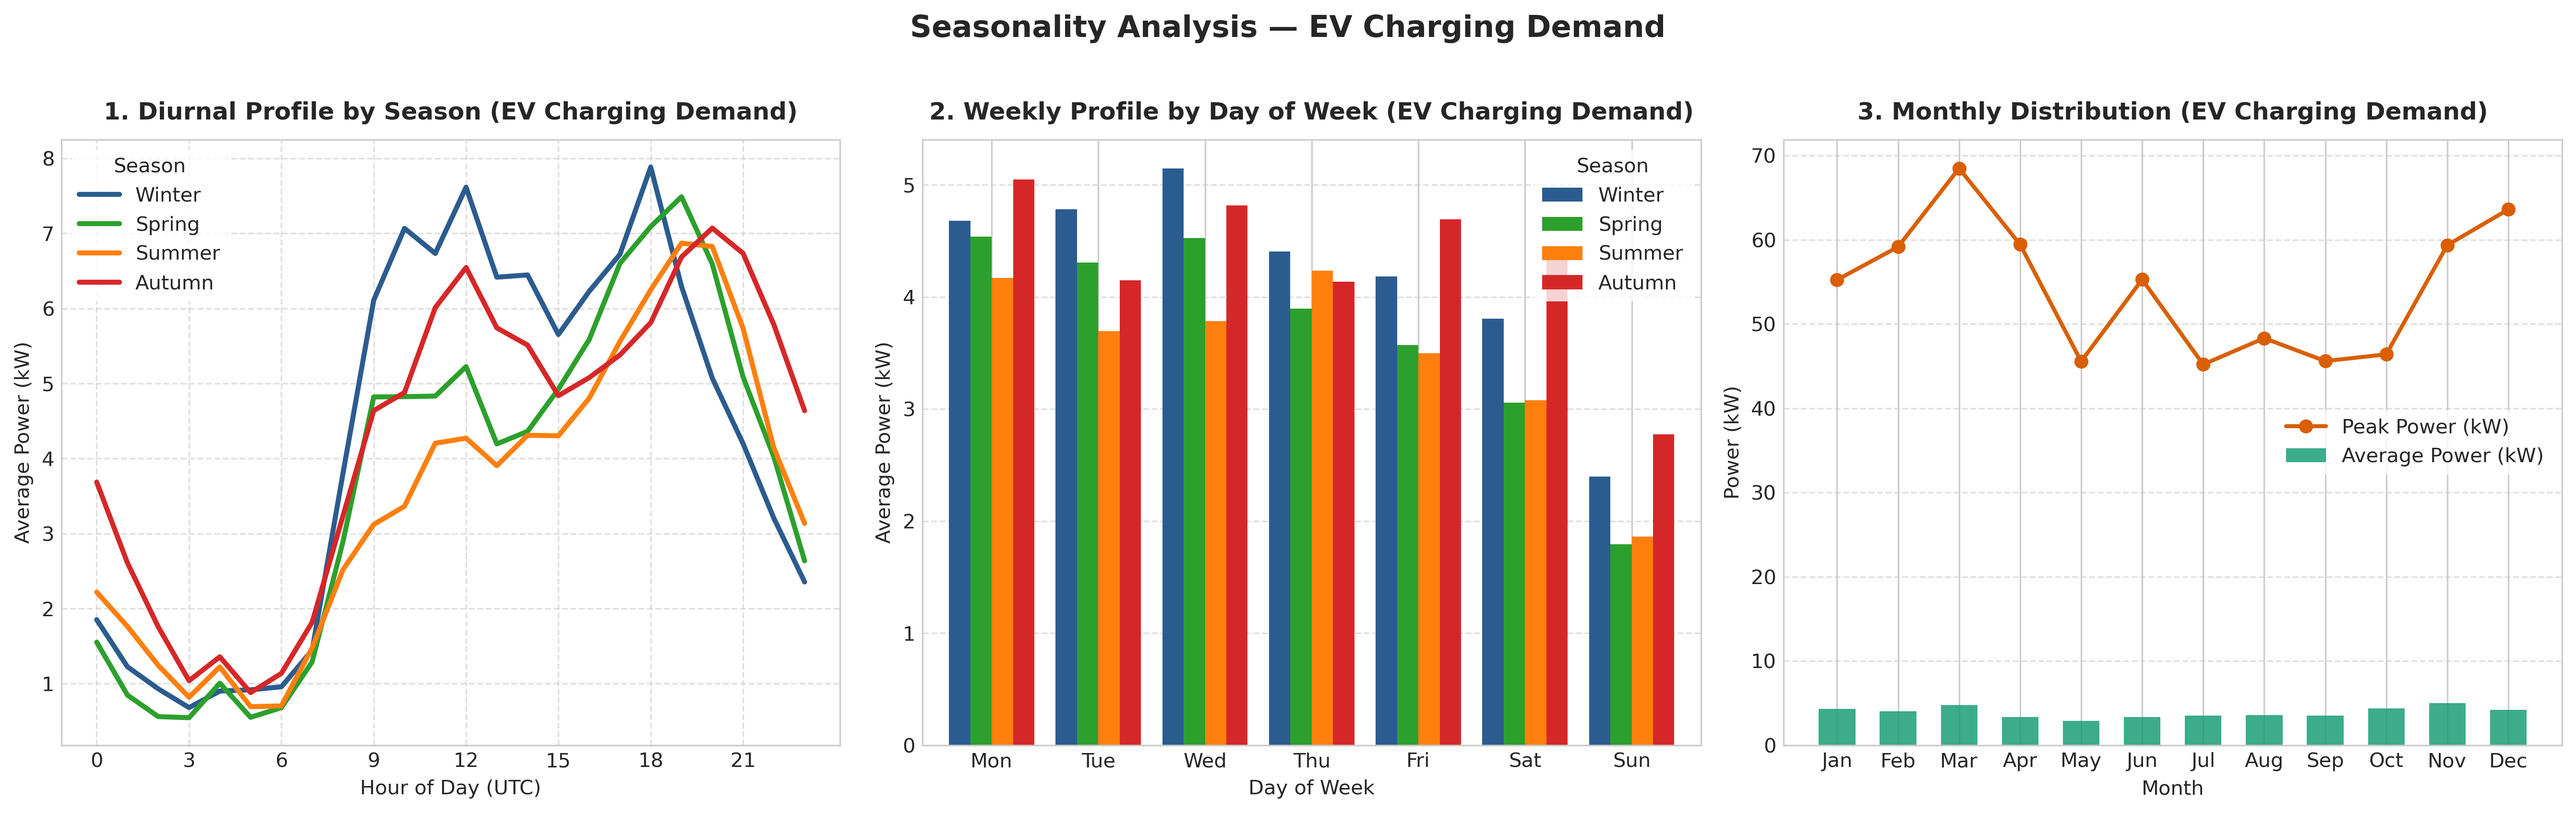
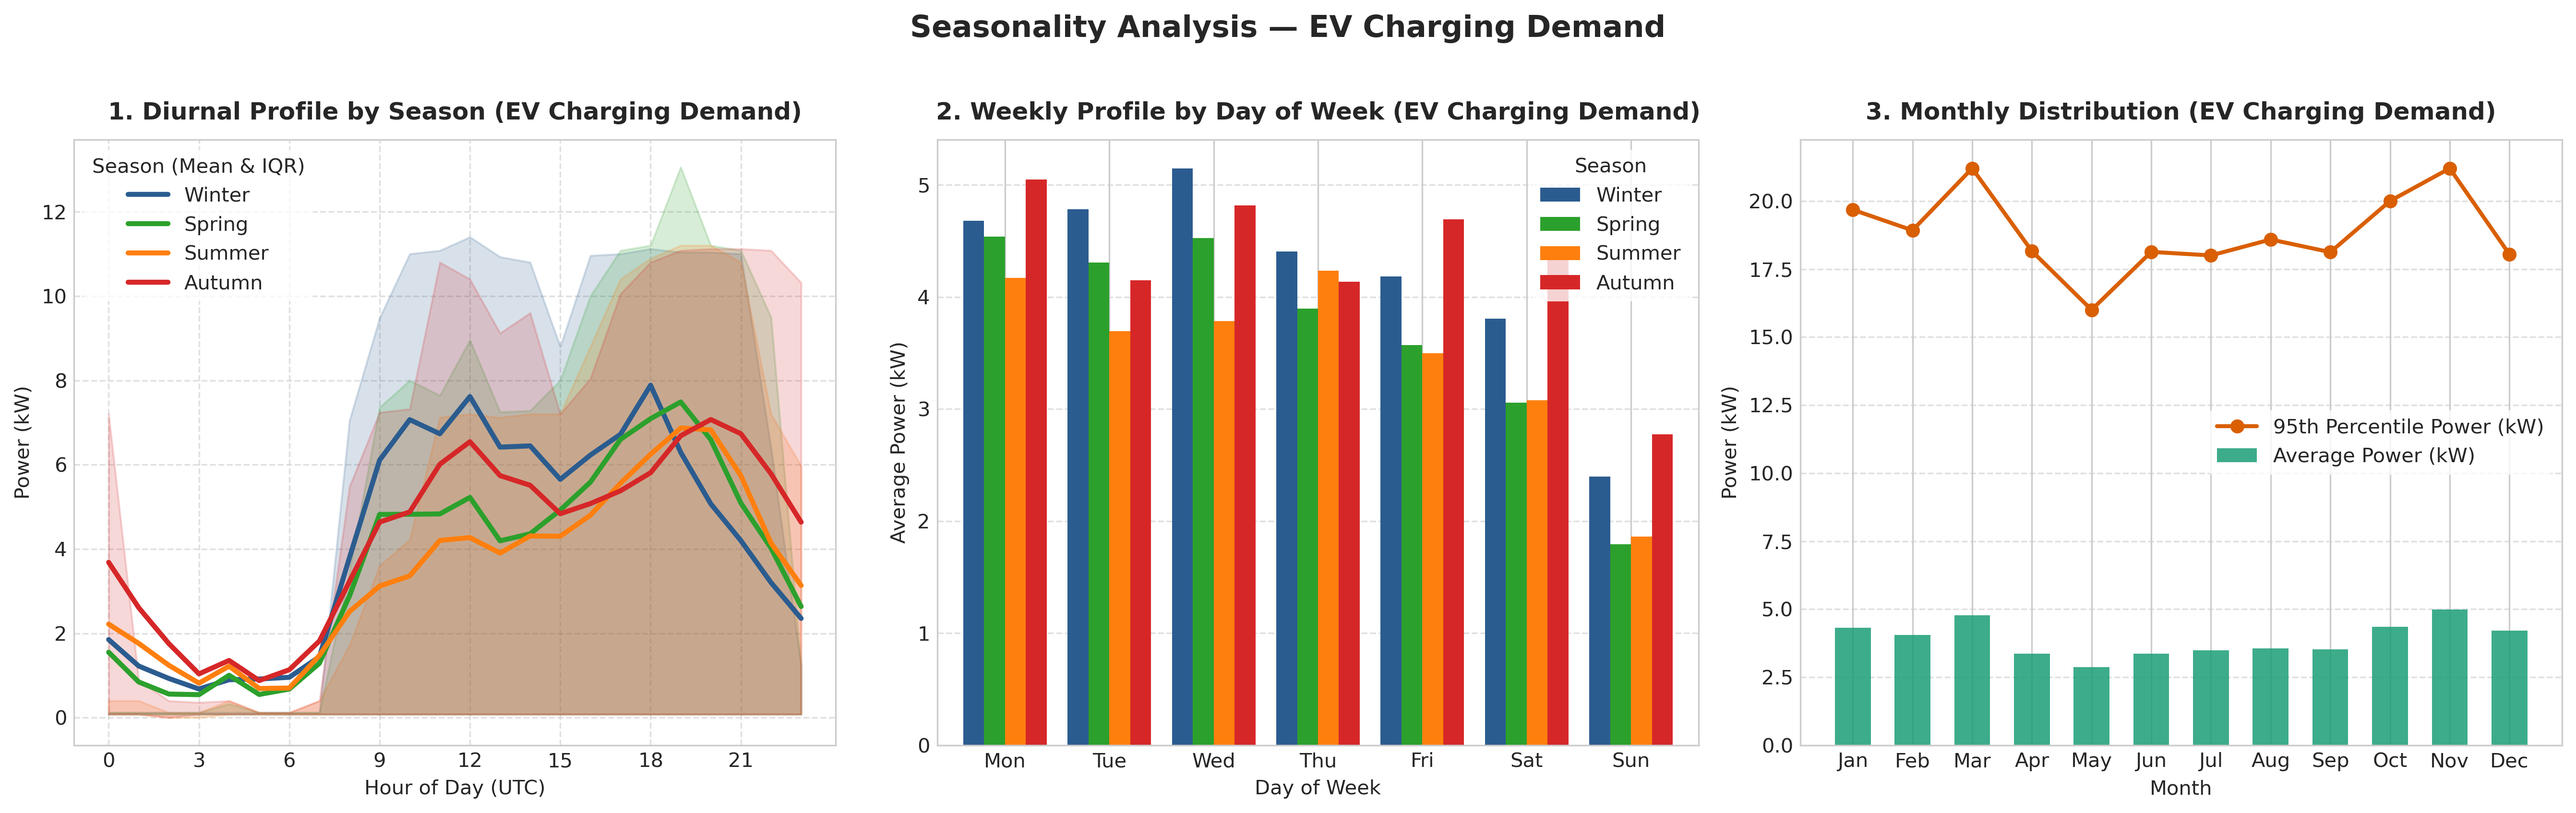
seasonality  plot fix

diff --git a/BMS_brain/src/seasonality_analysis.py b/BMS_brain/src/seasonality_analysis.py
@@ -4,7 +4,7 @@ from pathlib import Path
 import pandas as pd
 import numpy as np
 import matplotlib.pyplot as plt
-import seaborn as sns
+# import seaborn as sns
 
 # Set style for professional publication-quality figures
 plt.style.use('seaborn-v0_8-whitegrid' if 'seaborn-v0_8-whitegrid' in plt.style.available else 'default')
@@ -79,9 +79,11 @@ def add_season_and_time_features(df):
         
     return df
 
-def generate_source_seasonality_plot(df, value_col, title_prefix, color_palette, save_filename):
-    """Generates a 3-panel seasonality analysis figure for a single data source."""
-    fig, axes = plt.subplots(1, 3, figsize=(18, 5.5))
+def generate_source_seasonality_plot(df, value_col, title_prefix, color_palette, save_filename, show_weekly=True):
+    """Generates a seasonality analysis figure for a single data source."""
+    n_cols = 3 if show_weekly else 2
+    fig_width = 18 if show_weekly else 13
+    fig, axes = plt.subplots(1, n_cols, figsize=(fig_width, 5.5))
     
     season_colors = {
         'Winter': '#2b5c8f',
@@ -90,37 +92,59 @@ def generate_source_seasonality_plot(df, value_col, title_prefix, color_palette,
         'Autumn': '#d62728'
     }
 
-    # 1. Diurnal Seasonality Profile by Season (24-hour average)
+    # 1. Diurnal Seasonality Profile by Season (24-hour average + shaded IQR variance band)
     ax1 = axes[0]
-    hourly_season = df.groupby(['season', 'hour'], observed=False)[value_col].mean().reset_index()
+    grouped_hourly = df.groupby(['season', 'hour'], observed=False)[value_col]
+    hourly_mean = grouped_hourly.mean().rename('mean')
+    hourly_q25 = grouped_hourly.quantile(0.25).rename('q25')
+    hourly_q75 = grouped_hourly.quantile(0.75).rename('q75')
+    hourly_season = pd.concat([hourly_mean, hourly_q25, hourly_q75], axis=1).reset_index()
+
     for season in ['Winter', 'Spring', 'Summer', 'Autumn']:
         data_s = hourly_season[hourly_season['season'] == season]
-        ax1.plot(data_s['hour'], data_s[value_col], label=season, color=season_colors[season], linewidth=2.5)
+        ax1.plot(data_s['hour'], data_s['mean'], label=season, color=season_colors[season], linewidth=2.5)
+        ax1.fill_between(
+            data_s['hour'],
+            data_s['q25'],
+            data_s['q75'],
+            color=season_colors[season],
+            alpha=0.18
+        )
     
     ax1.set_title(f'1. Diurnal Profile by Season ({title_prefix})', fontsize=12, fontweight='bold', pad=10)
     ax1.set_xlabel('Hour of Day (UTC)', fontsize=10)
-    ax1.set_ylabel('Average Power (kW)', fontsize=10)
+    ax1.set_ylabel('Power (kW)', fontsize=10)
     ax1.set_xticks(range(0, 24, 3))
     ax1.grid(True, linestyle='--', alpha=0.6)
-    ax1.legend(title='Season', frameon=True, facecolor='white', edgecolor='none')
+    ax1.legend(title='Season (Mean & IQR)', frameon=True, facecolor='white', edgecolor='none')
 
-    # 2. Weekly Seasonality Profile (Day of Week)
-    ax2 = axes[1]
-    weekly_season = df.groupby(['day_name', 'season'], observed=False)[value_col].mean().unstack()
-    weekly_season.plot(kind='bar', ax=ax2, color=[season_colors[s] for s in weekly_season.columns], width=0.8)
-    ax2.set_title(f'2. Weekly Profile by Day of Week ({title_prefix})', fontsize=12, fontweight='bold', pad=10)
-    ax2.set_xlabel('Day of Week', fontsize=10)
-    ax2.set_ylabel('Average Power (kW)', fontsize=10)
-    ax2.set_xticklabels(weekly_season.index, rotation=0)
-    ax2.grid(True, linestyle='--', alpha=0.6, axis='y')
-    ax2.legend(title='Season', frameon=True, facecolor='white', edgecolor='none')
+    if show_weekly:
+        # 2. Weekly Seasonality Profile (Day of Week)
+        ax2 = axes[1]
+        weekly_season = df.groupby(['day_name', 'season'], observed=False)[value_col].mean().unstack()
+        weekly_season.plot(kind='bar', ax=ax2, color=[season_colors[s] for s in weekly_season.columns if s in season_colors], width=0.8)
+        ax2.set_title(f'2. Weekly Profile by Day of Week ({title_prefix})', fontsize=12, fontweight='bold', pad=10)
+        ax2.set_xlabel('Day of Week', fontsize=10)
+        ax2.set_ylabel('Average Power (kW)', fontsize=10)
+        ax2.set_xticklabels(weekly_season.index, rotation=0)
+        ax2.grid(True, linestyle='--', alpha=0.6, axis='y')
+        ax2.legend(title='Season', frameon=True, facecolor='white', edgecolor='none')
+        
+        ax3 = axes[2]
+        panel_num = 3
+    else:
+        ax3 = axes[1]
+        panel_num = 2
 
-    # 3. Monthly Seasonality Profile (Average & Peak Power)
-    ax3 = axes[2]
-    monthly_stats = df.groupby('month_name', observed=False)[value_col].agg(['mean', 'max']).reset_index()
+    # 3. Monthly Seasonality Profile (Average & 95th Percentile Power)
+    grouped_monthly = df.groupby('month_name', observed=False)[value_col]
+    m_mean = grouped_monthly.mean().rename('mean')
+    m_p95 = grouped_monthly.quantile(0.95).rename('p95')
+    monthly_stats = pd.concat([m_mean, m_p95], axis=1).reset_index()
+
     ax3.bar(monthly_stats['month_name'], monthly_stats['mean'], label='Average Power (kW)', color=color_palette[0], alpha=0.85, width=0.6)
-    ax3.plot(monthly_stats['month_name'], monthly_stats['max'], label='Peak Power (kW)', color='#d95f02', marker='o', linewidth=2)
-    ax3.set_title(f'3. Monthly Distribution ({title_prefix})', fontsize=12, fontweight='bold', pad=10)
+    ax3.plot(monthly_stats['month_name'], monthly_stats['p95'], label='95th Percentile Power (kW)', color='#d95f02', marker='o', linewidth=2)
+    ax3.set_title(f'{panel_num}. Monthly Distribution ({title_prefix})', fontsize=12, fontweight='bold', pad=10)
     ax3.set_xlabel('Month', fontsize=10)
     ax3.set_ylabel('Power (kW)', fontsize=10)
     ax3.grid(True, linestyle='--', alpha=0.6, axis='y')
@@ -134,14 +158,15 @@ def generate_source_seasonality_plot(df, value_col, title_prefix, color_palette,
     print(f"Saved seasonality plot: {save_path}")
     plt.close()
 
-def generate_combined_overview_plot(df_pv, df_con, df_ev):
-    """Generates an overview plot comparing seasonal profiles across all 3 data sources."""
-    fig, axes = plt.subplots(3, 1, figsize=(14, 12), sharex=True)
+def generate_combined_overview_plot(df_pv, df_con, df_ev, df_net):
+    """Generates an overview plot comparing seasonal profiles across all data sources including Net Load."""
+    fig, axes = plt.subplots(4, 1, figsize=(14, 14), sharex=True)
 
     sources = [
-        (df_pv, 'PV', 'Solar PV Generation Seasonality (kW)', '#e6ab02'),
-        (df_con, 'c_gen', 'Building Consumption Seasonality (kW)', '#7570b3'),
-        (df_ev, 'c_ev', 'EV Charging Seasonality (kW)', '#1b9e77')
+        (df_pv, 'PV', 'Solar PV Generation (kW)', '#e6ab02'),
+        (df_con, 'c_gen', 'Building Consumption (kW)', '#7570b3'),
+        (df_ev, 'c_ev', 'EV Charging Demand (kW)', '#1b9e77'),
+        (df_net, 'net_load', 'Net Load Profile (Building + EV - PV) (kW)', '#d95f02')
     ]
 
     season_colors = {
@@ -153,20 +178,32 @@ def generate_combined_overview_plot(df_pv, df_con, df_ev):
 
     for idx, (df, col, ylabel, base_color) in enumerate(sources):
         ax = axes[idx]
-        hourly_season = df.groupby(['season', 'hour'], observed=False)[col].mean().reset_index()
+        grouped_hourly = df.groupby(['season', 'hour'], observed=False)[col]
+        h_mean = grouped_hourly.mean().rename('mean')
+        h_q25 = grouped_hourly.quantile(0.25).rename('q25')
+        h_q75 = grouped_hourly.quantile(0.75).rename('q75')
+        hourly_season = pd.concat([h_mean, h_q25, h_q75], axis=1).reset_index()
+
         for season in ['Winter', 'Spring', 'Summer', 'Autumn']:
             data_s = hourly_season[hourly_season['season'] == season]
-            ax.plot(data_s['hour'], data_s[col], label=season, color=season_colors[season], linewidth=2.5)
+            ax.plot(data_s['hour'], data_s['mean'], label=season, color=season_colors[season], linewidth=2.5)
+            ax.fill_between(
+                data_s['hour'],
+                data_s['q25'],
+                data_s['q75'],
+                color=season_colors[season],
+                alpha=0.18
+            )
         
         ax.set_title(f'Diurnal Profile: {ylabel}', fontsize=12, fontweight='bold', pad=8)
         ax.set_ylabel('Power (kW)', fontsize=10)
         ax.grid(True, linestyle='--', alpha=0.6)
-        ax.legend(title='Season', loc='upper right', frameon=True, facecolor='white')
+        ax.legend(title='Season (Mean & IQR)', loc='upper right', frameon=True, facecolor='white')
 
     axes[-1].set_xlabel('Hour of Day (UTC)', fontsize=11)
     axes[-1].set_xticks(range(0, 24, 1))
 
-    plt.suptitle('Multi-Source Diurnal Seasonality Comparison (PV vs. Building vs. EV)', fontsize=15, fontweight='bold', y=0.99)
+    plt.suptitle('Multi-Source Diurnal Seasonality Comparison (PV vs. Building vs. EV vs. Net Load)', fontsize=15, fontweight='bold', y=0.995)
     plt.tight_layout()
 
     save_path = output_dir / "all_sources_seasonality_overview.png"
@@ -183,31 +220,49 @@ def main():
     df_con = add_season_and_time_features(df_con)
     df_ev = add_season_and_time_features(df_ev)
 
-    # 1. PV Seasonality Plot
+    # Calculate Net Load dataset: (Building Consumption + EV Charging) - PV Generation
+    df_net = pd.merge(df_con[['Date', 'c_gen']], df_ev[['Date', 'c_ev']], on='Date')
+    df_net = pd.merge(df_net, df_pv[['Date', 'PV']], on='Date')
+    df_net['net_load'] = df_net['c_gen'] + df_net['c_ev'] - df_net['PV']
+    df_net = add_season_and_time_features(df_net)
+
+    # 1. PV Seasonality Plot (Diurnal with variance bands & Monthly 95th percentile, no weekly profile)
     generate_source_seasonality_plot(
         df_pv, 'PV', 'Solar PV Generation',
         color_palette=['#e6ab02'],
-        save_filename='pv_seasonality_plot.png'
+        save_filename='pv_seasonality_plot.png',
+        show_weekly=False
     )
 
-    # 2. Building Consumption Seasonality Plot
+    # 2. Building Consumption Seasonality Plot (Diurnal with variance bands, Weekly, Monthly 95th percentile)
     generate_source_seasonality_plot(
         df_con, 'c_gen', 'Building Consumption',
         color_palette=['#7570b3'],
-        save_filename='consumption_seasonality_plot.png'
+        save_filename='consumption_seasonality_plot.png',
+        show_weekly=True
     )
 
-    # 3. EV Charging Seasonality Plot
+    # 3. EV Charging Seasonality Plot (Diurnal with variance bands, Weekly, Monthly 95th percentile)
     generate_source_seasonality_plot(
         df_ev, 'c_ev', 'EV Charging Demand',
         color_palette=['#1b9e77'],
-        save_filename='ev_seasonality_plot.png'
+        save_filename='ev_seasonality_plot.png',
+        show_weekly=True
     )
 
-    # 4. Multi-Source Overview Seasonality Plot
-    generate_combined_overview_plot(df_pv, df_con, df_ev)
+    # 4. Aggregated Net Load Seasonality Plot (Diurnal with variance bands, Weekly, Monthly 95th percentile)
+    generate_source_seasonality_plot(
+        df_net, 'net_load', 'Net Load Profile (Building + EV - PV)',
+        color_palette=['#d95f02'],
+        save_filename='net_load_seasonality_plot.png',
+        show_weekly=True
+    )
+
+    # 5. Multi-Source Overview Seasonality Plot
+    generate_combined_overview_plot(df_pv, df_con, df_ev, df_net)
 
     print(f"\nAll seasonality plots successfully exported to: {output_dir}")
 
 if __name__ == "__main__":
     main()
+
